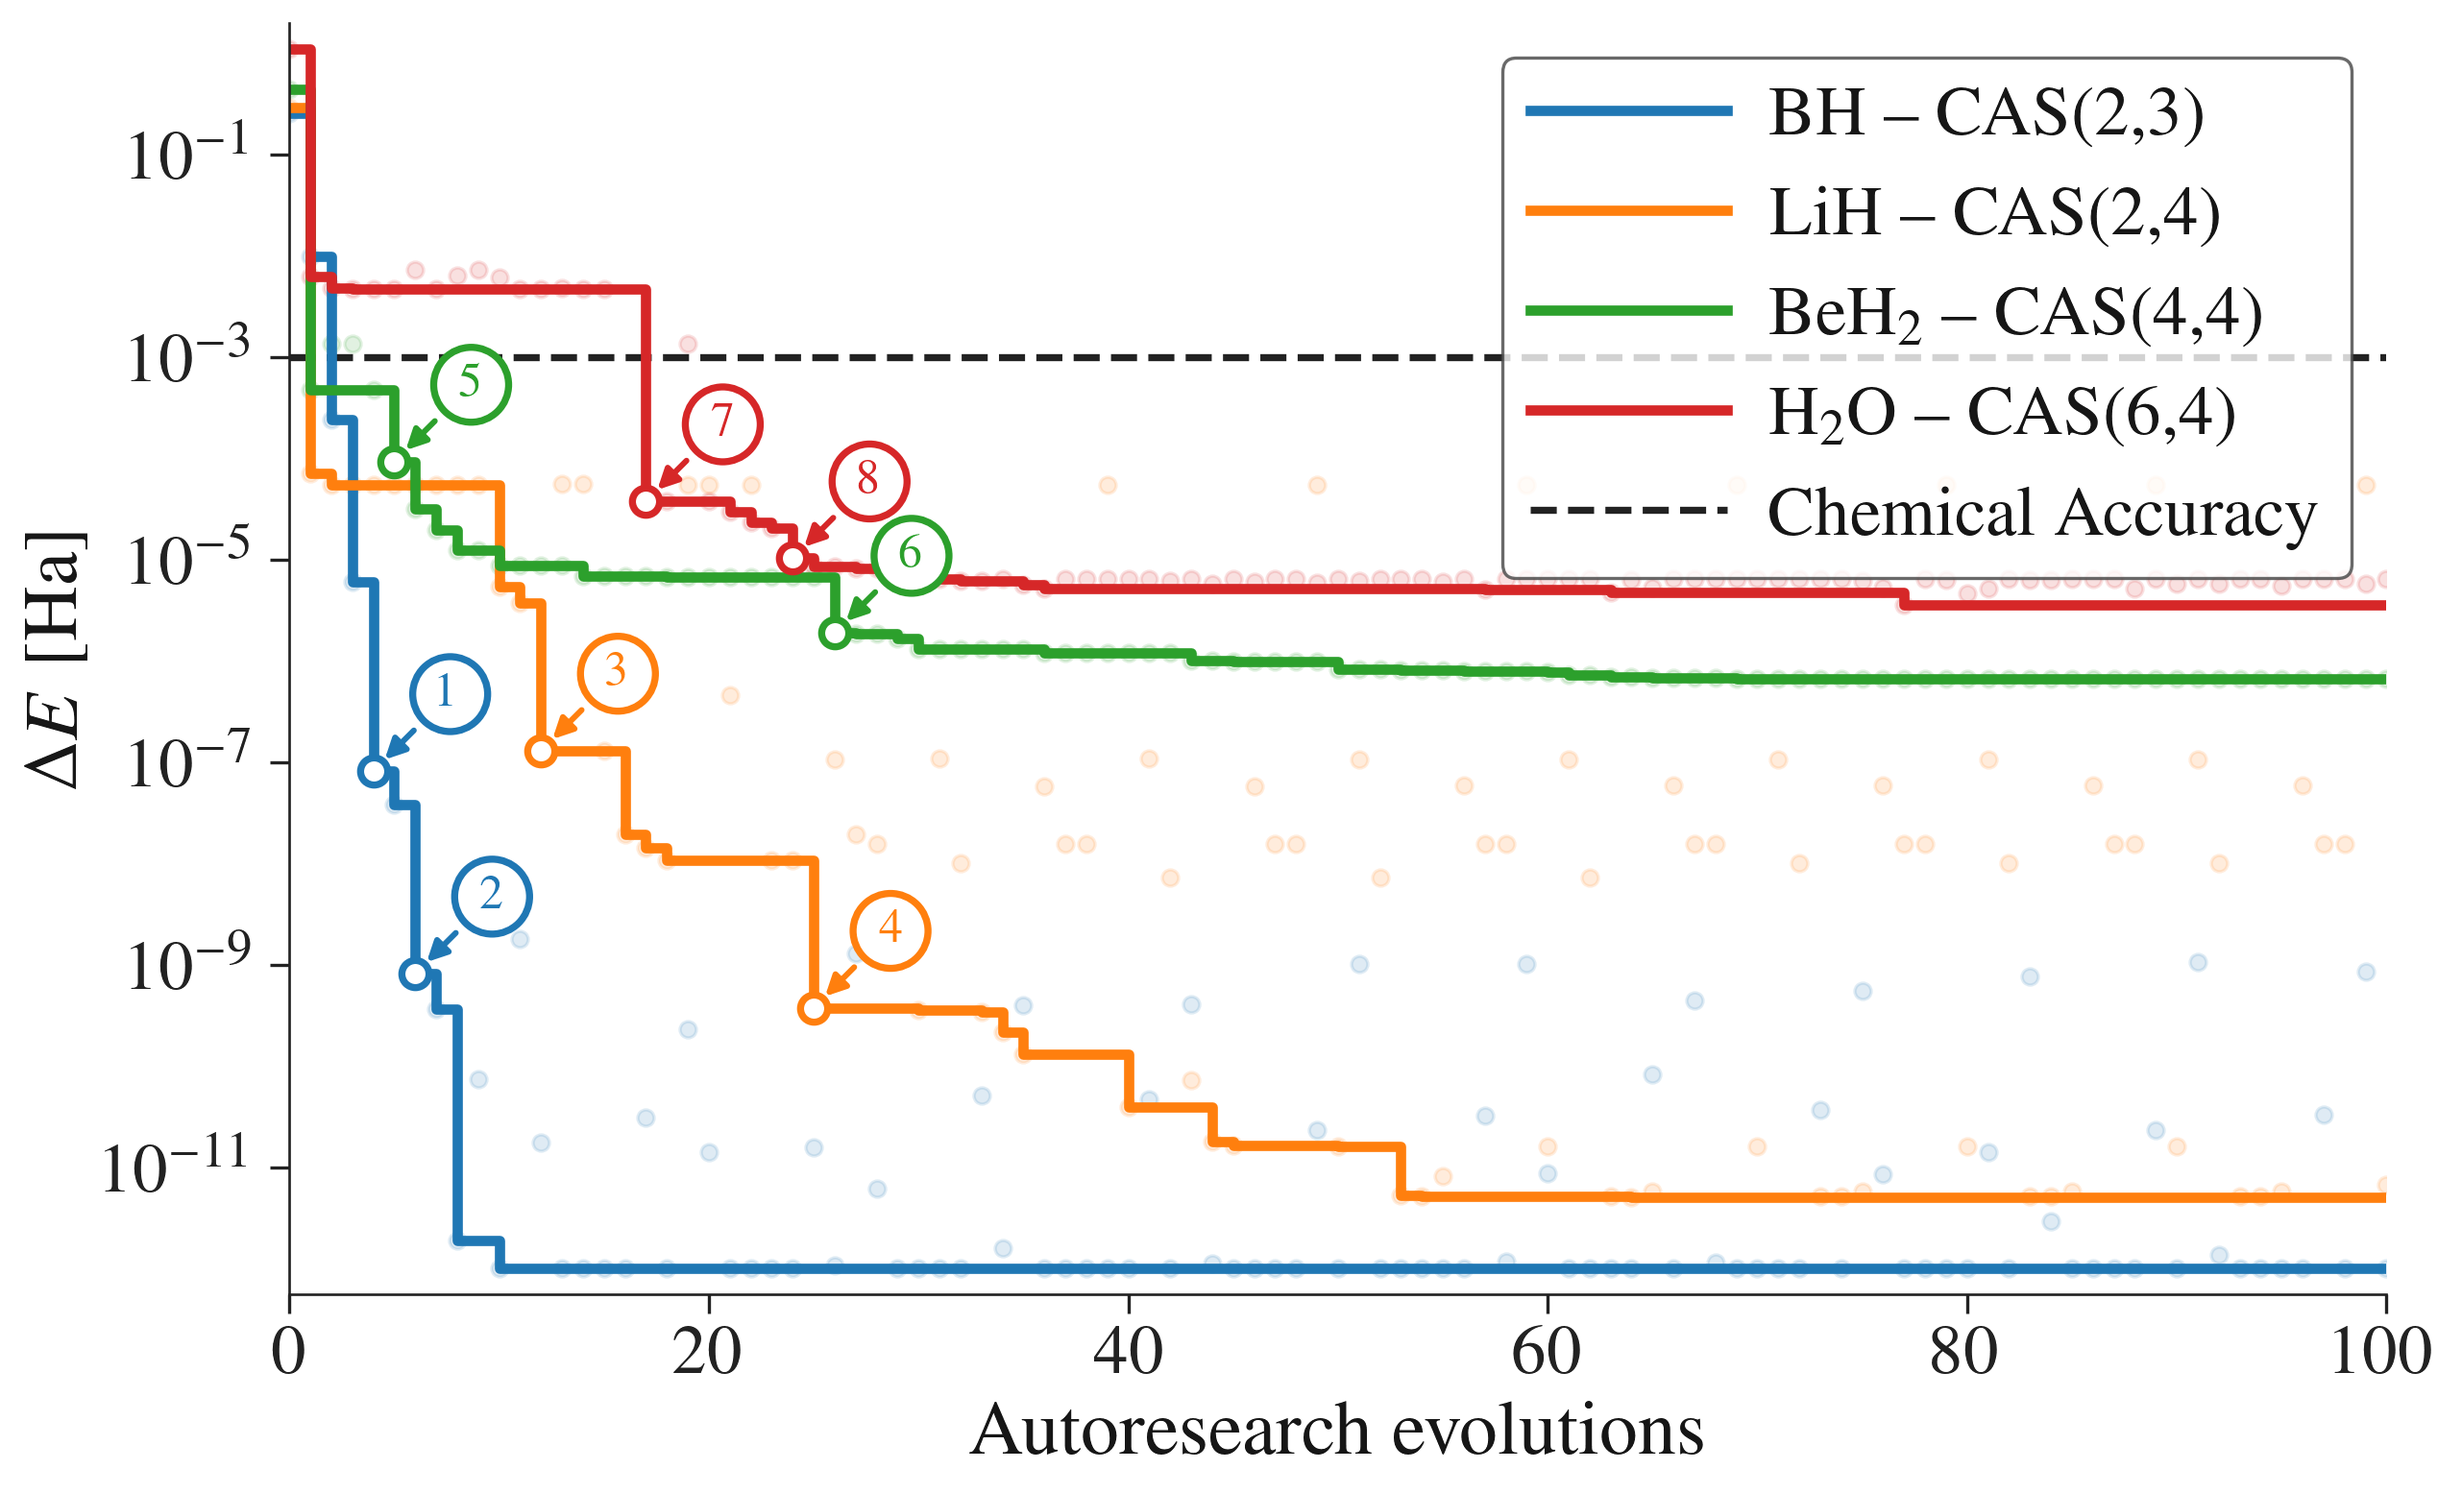
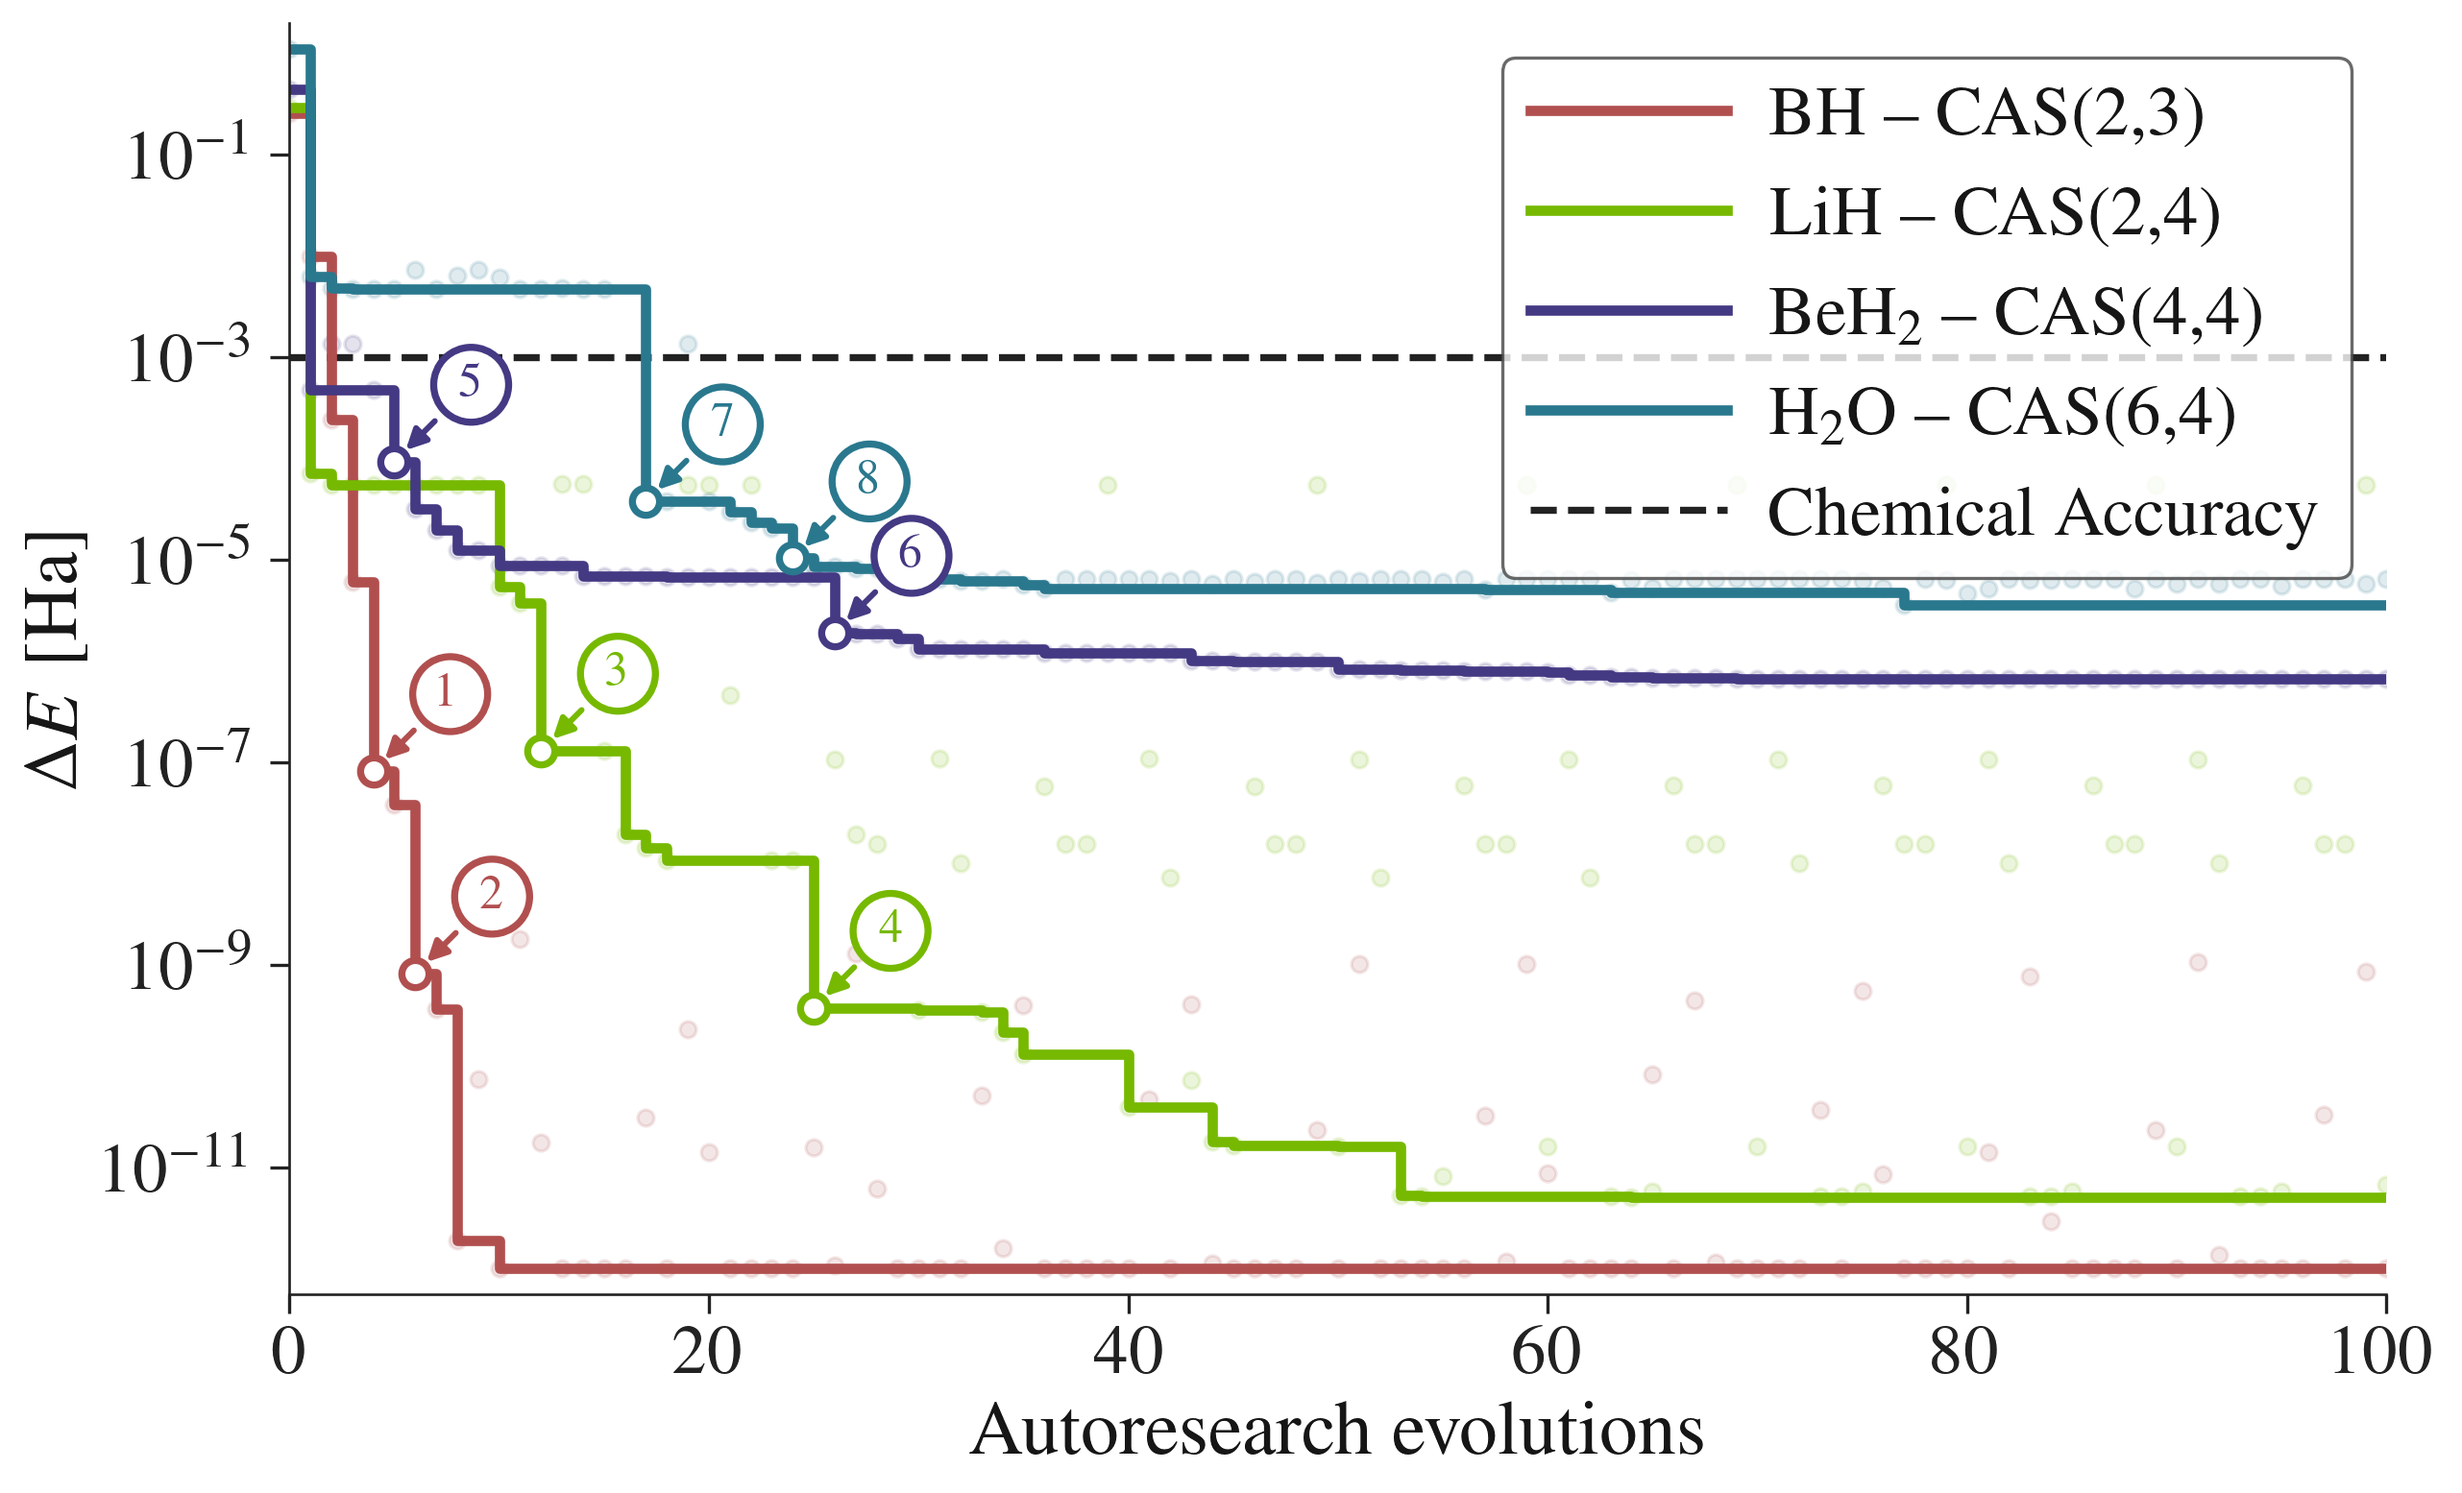
Refresh VQE milestone figure palette

diff --git a/figs/vqe/make_milestone_figure.py b/figs/vqe/make_milestone_figure.py
@@ -2,6 +2,7 @@ from __future__ import annotations
 
 import csv
 import json
+import os
 import sys
 from dataclasses import dataclass
 from pathlib import Path
@@ -16,26 +17,43 @@ if str(ROOT) not in sys.path:
 from plot_style import apply_style, finish_axes
 from examples.vqe.reference_energies import reference_energy
 
-SNAPSHOT_ROOT = ROOT / "examples" / "vqe" / "snapshots"
+LEGACY_ARCHIVES = [
+    ROOT.parent / "autoresearch_legacy" / "gsopt_repo_archive_20260411_102814",
+    ROOT.parent / "autoresearch_legacy" / "gsopt_repo_archive_20260411_102759",
+]
+LEGACY_ROOT = next((path for path in LEGACY_ARCHIVES if path.exists()), None)
+if LEGACY_ROOT is None:
+    raise FileNotFoundError("could not locate autoresearch_legacy VQE archive")
+
+SNAPSHOT_ROOT = Path(
+    os.environ.get(
+        "AUTORESEARCH_VQE_MILESTONE_SNAPSHOT_ROOT",
+        LEGACY_ROOT / "examples" / "vqe" / "snapshots",
+    )
+)
 FIG_DIR = Path(__file__).resolve().parent
 OUTPUT_PDF = FIG_DIR / "vqe_energy_milestones.pdf"
 OUTPUT_PNG = FIG_DIR / "vqe_energy_milestones.png"
 OUTPUT_TSV = FIG_DIR / "vqe_energy_milestones.tsv"
 OUTPUT_MD = FIG_DIR / "vqe_energy_milestones.md"
-ORDER = ["bh", "lih", "beh2", "h2o", "n2"]
+ORDER = ["bh", "lih", "beh2", "h2o"]
 MOLECULE_NAMES = {
     "bh": "BH",
     "lih": "LiH",
     "beh2": "BeH2",
     "h2o": "H2O",
-    "n2": "N2",
 }
 MOLECULE_LEGEND = {
     "BH": r"$\mathrm{BH}$ -- CAS(2,3)",
     "LiH": r"$\mathrm{LiH}$ -- CAS(2,4)",
     "BeH2": r"$\mathrm{BeH_2}$ -- CAS(4,4)",
     "H2O": r"$\mathrm{H_2O}$ -- CAS(6,4)",
-    "N2": r"$\mathrm{N_2}$ -- CAS(6,6)",
+}
+MOLECULE_COLORS = {
+    "bh": "#b14f4f",
+    "lih": "#76B900",
+    "beh2": "#443983",
+    "h2o": "#2a788e",
 }
 CHEMICAL_ACCURACY = 1e-3
 DELTA_FLOOR = 1e-12
@@ -53,7 +71,6 @@ CALLOUT_LAYOUTS = {
     "lih": [((24, 24), 0.0), ((24, 24), 0.0)],
     "beh2": [((24, 24), 0.0), ((24, 24), 0.0)],
     "h2o": [((24, 24), 0.0), ((24, 24), 0.0)],
-    "n2": [((24, 24), 0.0), ((24, 24), 0.0)],
 }
 
 
@@ -206,7 +223,6 @@ def select_milestones(events: list[Improvement]) -> list[Improvement]:
 
 
 def plot(ax):
-    colors = plt.get_cmap("tab10")
     all_deltas: list[float] = []
     handles: list[Line2D] = []
     milestones: list[Improvement] = []
@@ -219,7 +235,7 @@ def plot(ax):
         xs, ys, running = running_best_points(stem, rows)
         if not xs:
             continue
-        color = colors(idx % 10)
+        color = MOLECULE_COLORS[stem]
 
         ax.scatter(xs, ys, s=26, color=color, alpha=0.14, zorder=1)
         ax.step(xs, running, where="post", color=color, linewidth=3.2, zorder=2)
@@ -232,7 +248,7 @@ def plot(ax):
         return []
 
     milestones.sort(key=lambda event: (ORDER.index(event.stem), event.iteration))
-    colors_by_stem = {stem: colors(idx % 10) for idx, stem in enumerate(ORDER)}
+    colors_by_stem = MOLECULE_COLORS
     seen_per_stem: dict[str, int] = {}
     for marker_id, event in enumerate(milestones, start=1):
         color = colors_by_stem[event.stem]
